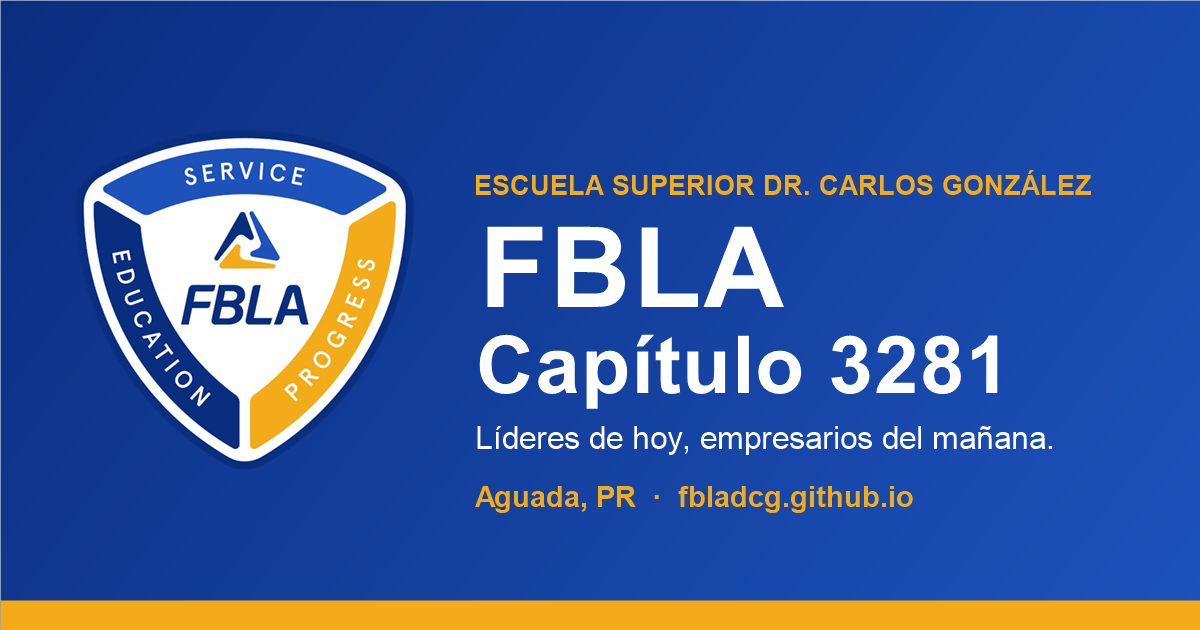
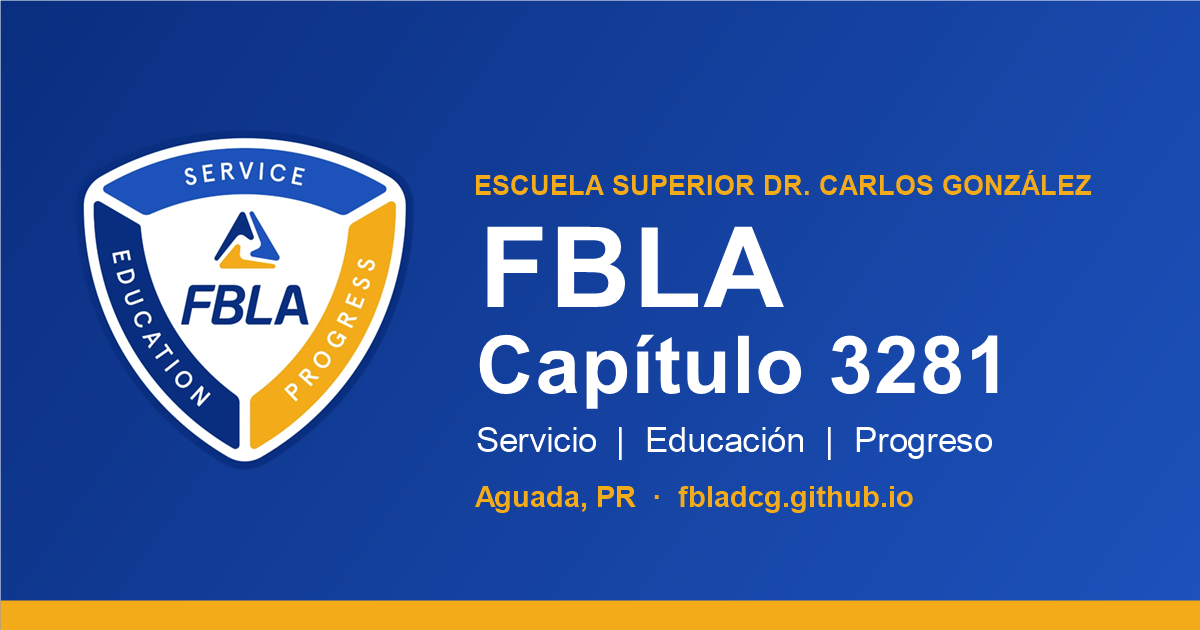
Vista previa: nuevo lema Servicio | Educacion | Progreso

Changed region(s): [[0.4008, 0.6635, 0.8942, 0.7238]]

diff --git a/index.html b/index.html
@@ -13,7 +13,7 @@
   <meta property="og:type" content="website">
   <meta property="og:site_name" content="FBLA Capítulo 3281">
   <meta property="og:title" content="FBLA Capítulo 3281 — Escuela Superior Dr. Carlos González">
-  <meta property="og:description" content="Líderes de hoy, empresarios del mañana. Anuncios, eventos, fotos y cómo unirte.">
+  <meta property="og:description" content="Servicio | Educación | Progreso. Anuncios, eventos, fotos y cómo unirte.">
   <meta property="og:url" content="https://fbladcg.github.io/">
   <meta property="og:image" content="https://fbladcg.github.io/img/compartir.png">
   <meta property="og:image:width" content="1200">
